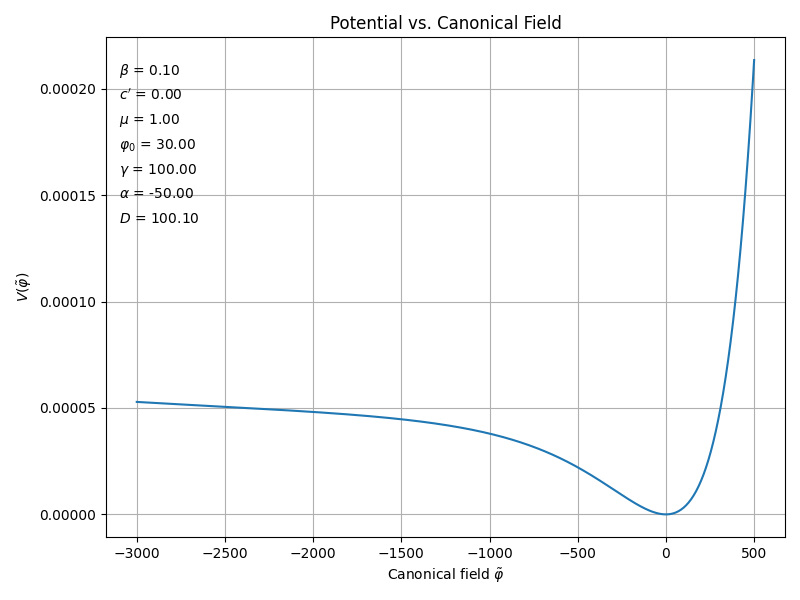
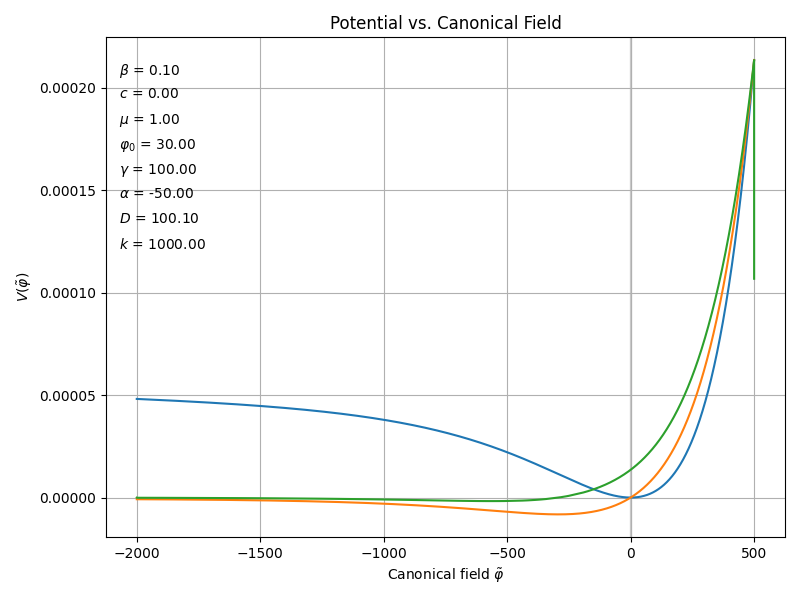
Edited graph generator and figures to look better

diff --git a/Python/Potential Solver for noncanonical action.py b/Python/Potential Solver for noncanonical action.py
@@ -49,14 +49,14 @@ tilde_vals = sol.y[0]     # corresponding canonical field values
 print("beginning value of canonical phi : ",tilde_vals[0],"\n","End value  of canonical phi : ", tilde_vals[-1])
 
 def V(phi):
-    return 0.5 * (m*phi0)**2 * (phi**2)/A_func(phi)**2
+    return  0.5 * (m*phi0)**2 * (phi**2)/A_func(phi)**2
 
 # If you want to plot V as a function of the canonical field, you need to know phi as a function of tilde.
 # We can build an interpolation function from tilde_vals vs. phi_vals.
 phi_of_tilde = interp1d(tilde_vals, phi_vals, kind='cubic', fill_value="extrapolate")
 
 # Specify the range for the canonical field you want to plot:
-tilde_start = -3000 # lower limit for canonical field
+tilde_start = -2000 # lower limit for canonical field
 tilde_end   = 500  # upper limit for canonical field
 
 if not np.all(np.diff(tilde_vals) > 0):
@@ -65,19 +65,30 @@ else:
     print("tilde_vals is strictly increasing.")
 
 # Generate canonical field values in that range:
-tilde_plot = np.linspace(tilde_start, tilde_end, 500)
+tilde_plot = np.linspace(tilde_start, tilde_end, 50000)
 phi_plot = phi_of_tilde(tilde_plot)
 V_plot   = V(phi_plot)
 
-phi_vals1 = np.linspace(-50, 30, 1001)
-
-V_normal = V(phi_vals1)
-
-tvals = np.linspace(0, 1, 101)
 """print(phi_vals)
 print("\n")
 print(tilde_vals)
 """
+
+dV = np.gradient(V_plot, tilde_plot)
+ddV = np.gradient(dV, tilde_plot)
+
+ratio = max(dV)/max(V_plot)
+ratio2 = max(ddV)/max(V_plot)
+
+print("Ratio of dV to V maxima is: ", ratio)
+print("Ratio of d^2V to V maxima is: ", ratio2)
+print("Ratio of d^2V to dV maxima is: ", ratio2/ratio)
+
+#Defining slow roll parameters : 
+epsilon = 0.5 * (dV/V_plot)**2
+eta = abs(ddV/V_plot)
+
+print(max(epsilon), max(eta))
 
 fig, ax = plt.subplots(figsize=(8,6))
 ax.plot(phi_vals, tilde_vals)
@@ -91,12 +102,13 @@ plt.tight_layout()
 # Parameters to display
 parameters = [
     (r'$\beta$', beta),
-    (r"$c'$", c),
+    (r"$c$", c),
     (r'$\mu$', m),
     (r'$\varphi_0$', phi0),
     (r'$\gamma$', gamma),
     (r'$\alpha$', alpha),
-    (r'$D$', D)
+    (r'$D$', D),
+    (r'$k$', k)
 ]
 
 # Display parameters on the plot
@@ -107,24 +119,46 @@ for i, (name, value) in enumerate(parameters):
 plt.savefig(r"C:\Users\Asus\Documents\Cambridge\Project\Inflation Project\Git Repo\Part-III-Inflation-Project\Python\Figures\Field vs Canonical Field.png")
 plt.show()
 
+Nr = []
+for i in range(len(epsilon)):
+    if epsilon[i] < 1:
+       Nr.append(tilde_plot[i])
+
+print(len(Nr),len(tilde_plot))
 
 fig, ax = plt.subplots(figsize=(8,6))
 ax.plot(tilde_plot, V_plot, label=r"$V(\tilde{\varphi})$")
+ax.plot(tilde_plot, dV/ratio, label=r"$dV/d\tilde{\varphi}$  (Scaled)")
+ax.plot(tilde_plot, ddV/ratio2, label=r"$d^2V/d\tilde{\varphi}^2$  (Scaled)")
 ax.set_xlabel(r"Canonical field $\tilde{\varphi}$")
 ax.set_ylabel(r"$V(\tilde{\varphi})$")
 ax.set_title("Potential vs. Canonical Field")
 ax.grid(True)
+
+mask = (epsilon > 1) & (eta > 1)
+
+# Check that there is at least one point satisfying the condition
+if np.any(mask):
+    slow_roll_min = np.min(tilde_plot[mask])
+    slow_roll_max = np.max(tilde_plot[mask])
+    ax.axvspan(slow_roll_min, slow_roll_max, color='grey', alpha=0.3, label="Slow-roll region")
+    print(f"Slow-roll region: {slow_roll_min:.2f} < tilde_phi < {slow_roll_max:.2f}")
+else:
+    print("No slow-roll region found in the specified canonical range.")
+
+
 plt.tight_layout()
 
 # Parameters to display
 parameters = [
     (r'$\beta$', beta),
-    (r"$c'$", c),
+    (r"$c$", c),
     (r'$\mu$', m),
     (r'$\varphi_0$', phi0),
     (r'$\gamma$', gamma),
     (r'$\alpha$', alpha),
-    (r'$D$', D)
+    (r'$D$', D),
+    (r'$k$', k)
 ]
 
 # Display parameters on the plot
@@ -135,16 +169,41 @@ for i, (name, value) in enumerate(parameters):
 plt.savefig(r"C:\Users\Asus\Documents\Cambridge\Project\Inflation Project\Git Repo\Part-III-Inflation-Project\Python\Figures\Full Lagrangian potential.png")
 plt.show()
 
+ep_start = -50
+ep_end = 50
+
+mask = (epsilon < 1) & (eta < 1) & (tilde_plot > ep_start) & (tilde_plot < ep_end)
+epsilon_masked = np.ma.masked_where(~mask, epsilon)
+eta_masked = np.ma.masked_where(~mask, eta)
+
+# --- Plot Slow-Roll Parameters vs Canonical Field ---
+fig, ax = plt.subplots(figsize=(8,6))
+ax.plot(tilde_plot, epsilon_masked, label=r"$\epsilon$")
+ax.plot(tilde_plot, eta_masked, label=r"$\eta$")
+ax.set_xlabel(r"Canonical field $\tilde{\varphi}$")
+ax.set_ylabel("Slow-roll parameters")
+ax.set_title("Slow-roll Parameters vs. Canonical Field")
+ax.legend()
+ax.grid(True)
 
 
-"""
-plt.figure(figsize=(8,6))
-plt.plot(phi_vals1, V_normal, label=r"$V(\varphi)$")
-plt.xlabel(r"Field $\varphi$")
-plt.ylabel(r"$V$")
-plt.title("Potential vs. Field")
-plt.legend()
-plt.grid(True)
+# Parameters to display
+parameters = [
+    (r'$\beta$', beta),
+    (r"$c$", c),
+    (r'$\mu$', m),
+    (r'$\varphi_0$', phi0),
+    (r'$\gamma$', gamma),
+    (r'$\alpha$', alpha),
+    (r'$D$', D),
+    (r'$k$', k)
+]
+
+# Display parameters on the plot
+for i, (name, value) in enumerate(parameters):
+    ax.text(0.02, 0.95 - i*0.05, f'{name} = {value:.2f}', transform=ax.transAxes, fontsize=10, verticalalignment='top')
+
+
 plt.tight_layout()
+plt.savefig(r"C:\Users\Asus\Documents\Cambridge\Project\Inflation Project\Git Repo\Part-III-Inflation-Project\Python\Figures\Full Slow Roll Parameters.png")
 plt.show()
-"""
